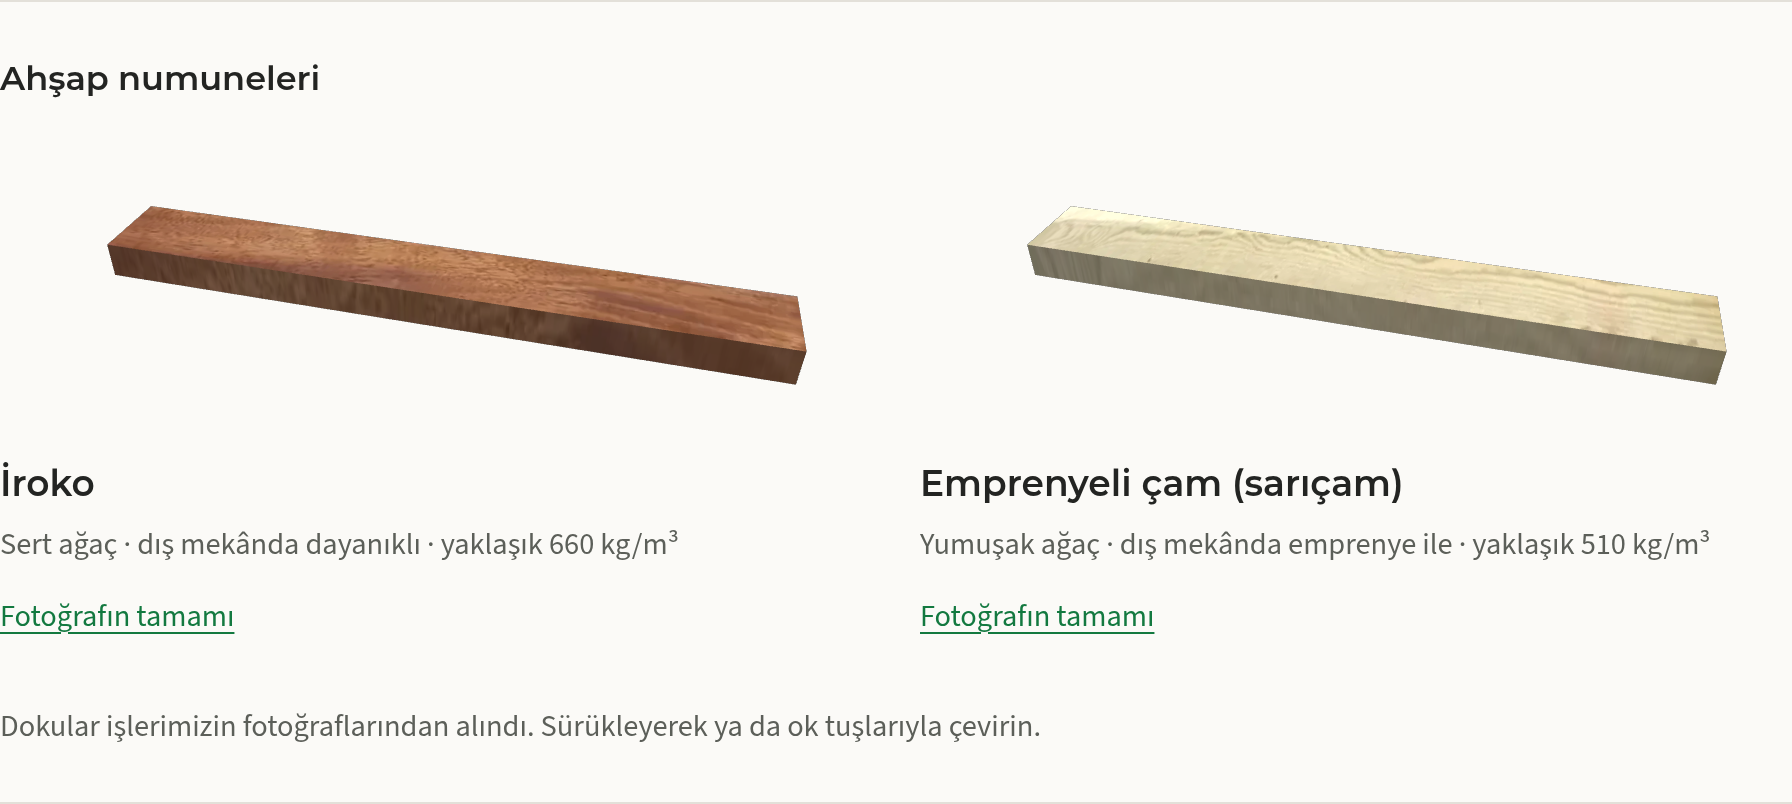
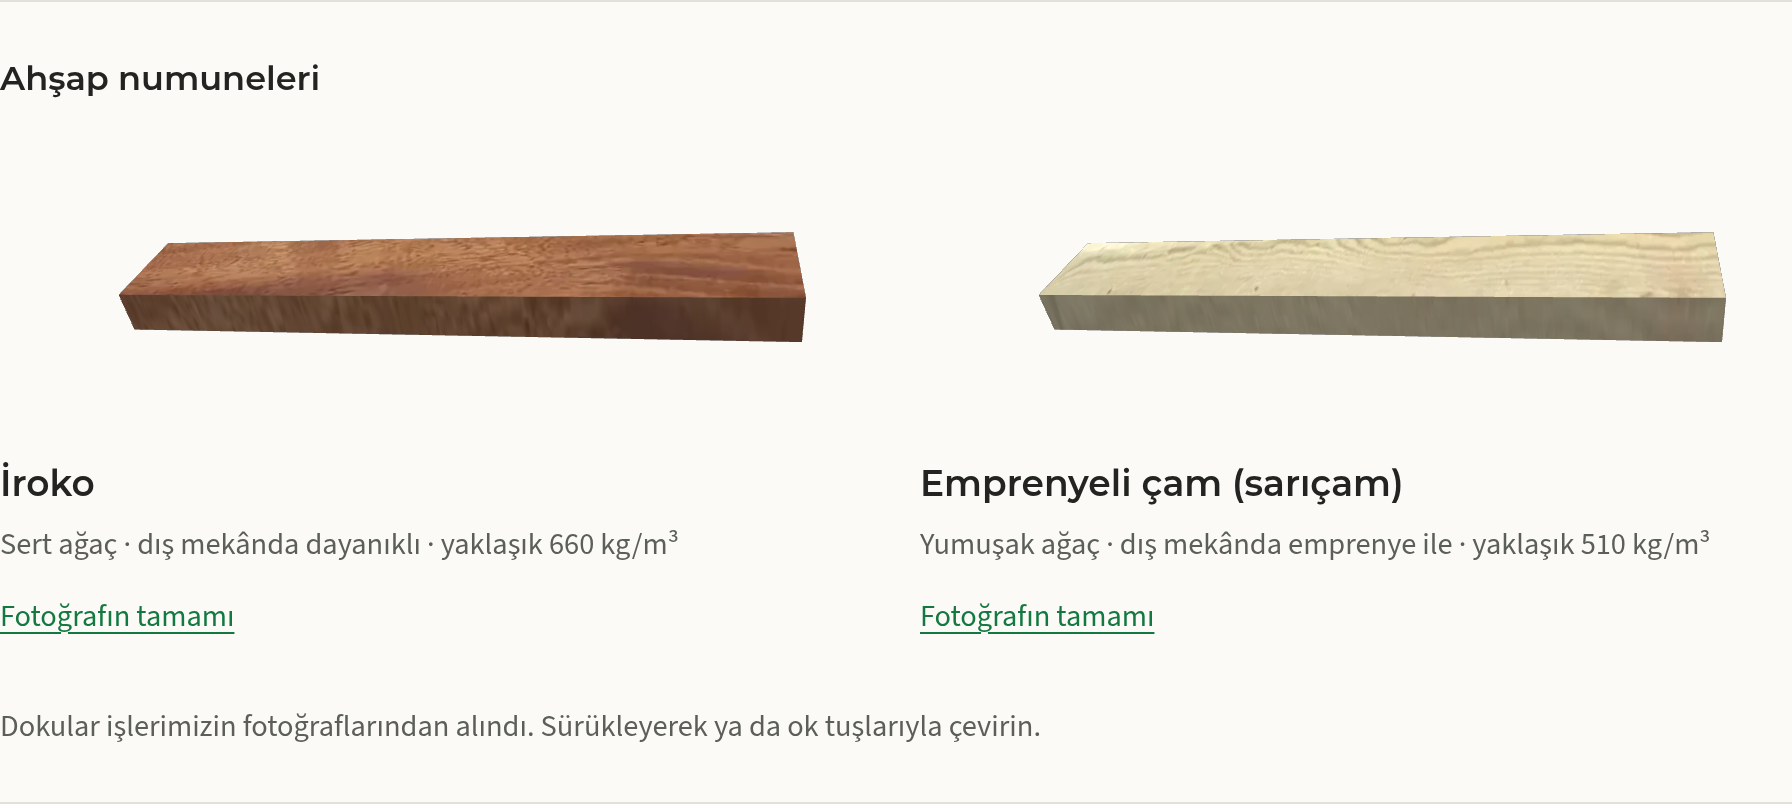
fix(guides): #161 review — the plank never leaves its tile; review lows
HIGH: the board turns about the world vertical again (OGL YXZ: tilted about its long
axis, then turned), so its long axis stays level, and the camera is framed for every
reachable pose (REACHABLE: tilt within MAX_TILT, a full turn), not the rest pose only.
A unit test sweeps tilt × a full circle: the projected extent stays ≤ 1 (inside the
tile), and the rest pose still fills > 0.6. The board is 6.4:1 (the middle 80% of the
photo's length) so it reads larger in its 3:1 tile. Mid-drag screenshots on a real GPU:
docs/screens/156-wood-drag-{desktop,mobile}.png.

Lows:
- evenColumns never hides more photos than trimColumns alone (fallback + seeded test).
- Arabic slugs: ک → k, ی → y; TOC test for transliterated Arabic H2 anchors.
- validSlug comment and project-slugs.ts header (digits-only rule) updated.
- guideProjects outdoor tie-break is a binary (outdoor or not).
- legalUses(settings) shared by the KVKK and cookie pages.
- docs/content/CHECKLIST.md: owner to confirm the cabinet rail is iroko.

Part of #156
Part of #5

Changed region(s): [[0.0625, 0.2488, 0.4688, 0.4975], [0.5625, 0.2488, 0.9688, 0.4975]]

diff --git a/src/lib/wood/samples.ts b/src/lib/wood/samples.ts
@@ -59,22 +59,49 @@ export const rotate = (r: Rotation, d: Rotation): Rotation => ({
 /** Vertical field of view of the samples' camera (a long lens: little perspective stretch on the near end). */
 export const FOV = 20
 
+type Size = { width: number; height: number; depth: number }
+
 /**
- * Camera distance at which a box of this size, turned by `r` (a turntable: first turned about its own vertical axis by `y`, then tilted toward the camera by `x`), spans
- * `fill` of the tile's width or height, whichever it reaches first, so the board fills its tile at any tile size.
+ * The sample board, an offcut lying face-up: 6.4:1 top face (the middle 80% of the 8:1 photo, so it fills more of its
+ * tile), about half as thick as it is wide.
  */
-export function fitDistance(size: { width: number; height: number; depth: number }, r: Rotation, aspect: number, fill = 0.85): number {
-  const t = Math.tan((FOV / 2) * (Math.PI / 180))
-  const corners = [-1, 1].flatMap((sx) => [-1, 1].flatMap((sy) => [-1, 1].map((sz) => [(sx * size.width) / 2, (sy * size.height) / 2, (sz * size.depth) / 2] as const)))
-  const turned = corners.map(([x, y, z]) => {
-    const [x1, z1] = [x * Math.cos(r.y) + z * Math.sin(r.y), -x * Math.sin(r.y) + z * Math.cos(r.y)]
-    return [x1, y * Math.cos(r.x) - z1 * Math.sin(r.x), y * Math.sin(r.x) + z1 * Math.cos(r.x)] as const
-  })
-  const fits = (d: number) => turned.every(([x, y, z]) => Math.abs(x) / ((d - z) * t * aspect) <= fill && Math.abs(y) / ((d - z) * t) <= fill)
+export const WOOD_BOARD: Size = { width: 3.2, height: 0.22, depth: 0.5 }
+/** Rest pose: top face seen from about 34° above, turned a little so the front edge and one end read. */
+export const WOOD_REST: Rotation = { x: 0.6, y: -0.3 }
+/**
+ * Every pose a drag or the arrow keys can reach (tilt clamped by MAX_TILT, turn unlimited), sampled: the camera is framed
+ * for all of them, so the board never leaves its tile (review of #161).
+ */
+export const REACHABLE: readonly Rotation[] = Array.from({ length: 17 }, (_, i) => -MAX_TILT + (i * MAX_TILT) / 8).flatMap((x) =>
+  Array.from({ length: 48 }, (_, j) => ({ x, y: (j * Math.PI) / 24 })),
+)
+
+const TAN = Math.tan((FOV / 2) * (Math.PI / 180))
+const corners = (size: Size) =>
+  [-1, 1].flatMap((sx) => [-1, 1].flatMap((sy) => [-1, 1].map((sz) => [(sx * size.width) / 2, (sy * size.height) / 2, (sz * size.depth) / 2] as const)))
+// OGL's Euler order YXZ: tilted about the board's long axis (x), then turned about the world vertical (y), so the long
+// axis always stays level and a turn never swings it up out of the tile.
+const turn = (r: Rotation) => ([x, y, z]: readonly [number, number, number]) => {
+  const [y1, z1] = [y * Math.cos(r.x) - z * Math.sin(r.x), y * Math.sin(r.x) + z * Math.cos(r.x)]
+  return [x * Math.cos(r.y) + z1 * Math.sin(r.y), y1, -x * Math.sin(r.y) + z1 * Math.cos(r.y)] as const
+}
+
+/** How far the turned board reaches toward the tile's edge from a camera at distance `d` (1 = the edge; NDC). */
+export function projectedExtent(size: Size, r: Rotation, aspect: number, d: number): number {
+  return Math.max(...corners(size).map(turn(r)).map(([x, y, z]) => Math.max(Math.abs(x) / ((d - z) * TAN * aspect), Math.abs(y) / ((d - z) * TAN))))
+}
+
+/**
+ * Camera distance at which the board, in the worst of the given poses, spans `fill` of the tile's width or height,
+ * whichever it reaches first: it fills the tile at any tile size and stays inside it in every one of those poses.
+ */
+export function fitDistance(size: Size, poses: readonly Rotation[], aspect: number, fill = 0.85): number {
+  const nearest = Math.max(...poses.flatMap((r) => corners(size).map(turn(r)).map((p) => p[2])))
+  const fits = (d: number) => poses.every((r) => projectedExtent(size, r, aspect, d) <= fill)
   // The projected size only shrinks as the camera backs off, so bisect between the nearest corner and far away.
-  let lo = Math.max(...turned.map((p) => p[2])) + 1e-6
+  let lo = nearest + 1e-6
   let hi = 1000
-  for (let i = 0; i < 60; i++) {
+  for (let i = 0; i < 50; i++) {
     const mid = (lo + hi) / 2
     if (fits(mid)) hi = mid
     else lo = mid

diff --git a/src/components/guides/wood-scene.ts b/src/components/guides/wood-scene.ts
@@ -4,10 +4,15 @@
 // Loaded through a dynamic import once the samples scroll into view, so OGL never ships in the page's first-load JS.
 import { Box, Camera, Mesh, Program, Renderer, Texture, Transform } from 'ogl'
 
-import { fitDistance, FOV } from '@/lib/wood/samples'
+import { fitDistance, FOV, REACHABLE, WOOD_BOARD } from '@/lib/wood/samples'
 
-// A board lying face-up: 8:1 top face like the texture, about half as thick as it is wide (a sample offcut).
-const BOARD = { width: 4, height: 0.22, depth: 0.5 }
+// Framing for every reachable pose costs a few tens of ms; the tile keeps its aspect, so it is worked out once per aspect.
+const distances = new Map<string, number>()
+const distanceFor = (aspect: number) => {
+  const key = aspect.toFixed(2)
+  if (!distances.has(key)) distances.set(key, fitDistance(WOOD_BOARD, REACHABLE, aspect))
+  return distances.get(key)!
+}
 
 const vertex = /* glsl */ `
 attribute vec3 position;
@@ -43,7 +48,9 @@ void main() {
   // across. The top shows the photo; a long edge shows a thin strip of it (the same grain, seen edge-on); an end shows end
   // grain: one column of the photo, darker, as sawn end grain is.
   vec3 f = abs(vFace);
-  vec2 uv = f.y > 0.5 ? vUv : f.z > 0.5 ? vec2(vUv.x, 0.45 + vUv.y * 0.1) : vec2(0.02 + vUv.y * 0.02, vUv.x);
+  // The board is 6.4:1, shorter than the 8:1 photo: it shows the middle 80% of the photo's length, uncropped across.
+  float u = 0.1 + vUv.x * 0.8;
+  vec2 uv = f.y > 0.5 ? vec2(u, vUv.y) : f.z > 0.5 ? vec2(u, 0.45 + vUv.y * 0.1) : vec2(0.12 + vUv.y * 0.02, vUv.x);
   vec3 base = texture2D(tMap, uv).rgb * (f.x > 0.5 ? 0.62 : f.z > 0.5 ? 0.86 : 1.0);
   // Grain relief: darker latewood reads as slightly lower, so the light catches the grain lines.
   vec2 g = f.y > 0.5 ? vec2(lum(uv + vec2(uTexel.x, 0.0)) - lum(uv - vec2(uTexel.x, 0.0)), lum(uv + vec2(0.0, uTexel.y)) - lum(uv - vec2(0.0, uTexel.y))) : vec2(0.0);
@@ -104,26 +111,21 @@ export async function mountWoodScene(
       uniforms: { tMap: { value: texture }, uTexel: { value: [1 / img.naturalWidth, 1 / img.naturalHeight] } },
     })
     const plank = new Mesh(gl, {
-      geometry: new Box(gl, BOARD),
+      geometry: new Box(gl, WOOD_BOARD),
       program,
     })
-    // A turntable: the board turns about its own vertical axis (y) on a stand that tilts toward the camera (x), so the
-    // top face stays a surface seen from above whichever way it is turned.
-    const stand = new Transform()
-    stand.setParent(scene)
-    plank.setParent(stand)
-    const turn = (r: { x: number; y: number }) => {
-      stand.rotation.x = r.x
-      plank.rotation.y = r.y
-    }
+    // Tilted about its long axis, then turned about the world vertical (OGL's YXZ order): the long axis stays level, so
+    // no turn swings an end up out of the tile.
+    plank.setParent(scene)
+    const turn = (r: { x: number; y: number }) => plank.rotation.set(r.x, r.y, 0)
     turn(rotation)
     const draw = () => renderer.render({ scene, camera })
     resize = () => {
       const aspect = frame.clientWidth / Math.max(1, frame.clientHeight)
       renderer.setSize(frame.clientWidth, frame.clientHeight)
       camera.perspective({ aspect })
-      // Framed for the rest pose, so the board fills the tile at any size; turning it later never re-zooms.
-      camera.position.set(0, 0, fitDistance(BOARD, rotation, aspect))
+      // Framed for every pose a drag can reach, so the board fills the tile at rest and never leaves it when turned.
+      camera.position.set(0, 0, distanceFor(aspect))
       draw()
     }
     canvas.addEventListener('webglcontextlost', lost)

diff --git a/src/lib/wood/samples.test.ts b/src/lib/wood/samples.test.ts
@@ -9,6 +9,10 @@ import {
   shownSamples,
   WOOD_SAMPLES,
   fitDistance,
+  projectedExtent,
+  REACHABLE,
+  WOOD_BOARD,
+  WOOD_REST,
 } from './samples'
 
 describe('WOOD_SAMPLES', () => {
@@ -79,14 +83,31 @@ describe('rotate', () => {
   })
 })
 
-describe('fitDistance (#156: the plank fills its tile at rest)', () => {
+describe('fitDistance (#156: the plank fills its tile and never leaves it)', () => {
   const board = { width: 4, height: 0.22, depth: 0.5 }
   it('face-on in a 3:1 tile, width-limited: the near corners span 85% of the width', () => {
     // Hand: x_ndc = 2 / ((d − 0.25) · tan 10° · 3) = 0.85 → d = 0.25 + 2 / (0.85 · 0.176327 · 3) = 4.6981.
-    expect(fitDistance(board, { x: 0, y: 0 }, 3)).toBeCloseTo(4.6981, 3)
+    expect(fitDistance(board, [{ x: 0, y: 0 }], 3)).toBeCloseTo(4.6981, 3)
   })
   it('in a very wide tile, height-limited: the thickness spans 85% of the height', () => {
     // Hand: y_ndc = 0.11 / ((d − 0.25) · tan 10°) = 0.85 → d = 0.25 + 0.11 / (0.85 · 0.176327) = 0.9839 (x_ndc 0.77 then).
-    expect(fitDistance(board, { x: 0, y: 0 }, 20)).toBeCloseTo(0.9839, 3)
+    expect(fitDistance(board, [{ x: 0, y: 0 }], 20)).toBeCloseTo(0.9839, 3)
+  })
+  it('a quarter turn about the vertical points the board at the camera: its long axis stays level', () => {
+    // y = 90°: the near end sits at z = 2, its 0.11 half-thickness must fit: d = 2 + 0.11 / (0.85 · tan 10°) = 2.7339
+    // (x_ndc of the 0.25 half-depth at aspect 3 is smaller).
+    expect(fitDistance(board, [{ x: 0, y: Math.PI / 2 }], 3)).toBeCloseTo(2.7339, 3)
+  })
+  it('framed for every reachable turn, the board stays inside its tile however it is dragged (review of #161)', () => {
+    for (const aspect of [3, 3.5]) {
+      const d = fitDistance(WOOD_BOARD, REACHABLE, aspect)
+      // A finer sweep than REACHABLE: every tilt the clamp allows, every turn of a full circle.
+      let worst = 0
+      for (let x = -MAX_TILT; x <= MAX_TILT + 1e-9; x += MAX_TILT / 40)
+        for (let y = -Math.PI; y <= Math.PI; y += Math.PI / 90) worst = Math.max(worst, projectedExtent(WOOD_BOARD, { x, y }, aspect, d))
+      expect(worst).toBeLessThanOrEqual(1)
+      // …and at rest it still fills most of the tile.
+      expect(projectedExtent(WOOD_BOARD, WOOD_REST, aspect, d)).toBeGreaterThan(0.6)
+    }
   })
 })

diff --git a/src/content/legal/kvkk.tsx b/src/content/legal/kvkk.tsx
@@ -1,10 +1,17 @@
 // Draft privacy notice (KVKK aydınlatma metni) used until a published `pages` doc (slug kvkk/privacy) exists.
 // Facts only from siteSettings and the actual form/infra (PLAN §10). A lawyer should review it before launch.
 import { Link } from '@/i18n/navigation'
+import { isMapEmbedUrl } from '@/lib/http/safe-href'
 
 type Controller = { name: string; address?: string; email?: string | null }
 /** What this deployment really loads: GA4 (env), Umami (env), the click-to-load Google map (siteSettings). */
 export type Uses = { ga: boolean; umami: boolean; map: boolean }
+/** One answer for the KVKK notice and the cookie policy (#156): measurement is named in both, or in neither. */
+export const legalUses = (settings: { address?: { mapEmbedUrl?: string | null } | null }): Uses => ({
+  ga: Boolean(process.env.NEXT_PUBLIC_GA_ID),
+  umami: Boolean(process.env.NEXT_PUBLIC_UMAMI_SRC && process.env.NEXT_PUBLIC_UMAMI_WEBSITE_ID),
+  map: isMapEmbedUrl(settings.address?.mapEmbedUrl),
+})
 
 // The e-mail is its own anchor: Cloudflare Email Obfuscation rewrites a bare address inside a text node, and its
 // decoder leaves split text nodes that break hydration (#147). A mailto link survives untouched.

diff --git a/src/lib/gallery/masonry.ts b/src/lib/gallery/masonry.ts
@@ -97,7 +97,7 @@ const HIDDEN_COST = 0.3
 /**
  * For a fixed set (no feed appends), #156: balances, then rearranges for the most even bottom edge after trimColumns
  * (ragged edge plus HIDDEN_COST per hidden photo), and trims. So the grid ends on a near-even line while hiding as few
- * chosen photos as it can.
+ * chosen photos as it can, and never more than trimColumns alone.
  */
 export function evenColumns(items: readonly Box[], columns: readonly number[][], gap = 0.05): number[][] {
   const ragged: Score = (cols) => {
@@ -105,5 +105,8 @@ export function evenColumns(items: readonly Box[], columns: readonly number[][],
     const h = heightsOf(items, kept, gap)
     return Math.max(...h) - Math.min(...h) + HIDDEN_COST * (items.length - kept.flat().length)
   }
-  return trimColumns(items, improve(balanceColumns(items, columns, gap), ragged))
+  const even = trimColumns(items, improve(balanceColumns(items, columns, gap), ragged))
+  // The trade-off above may hide a photo for a straighter edge; never more than trimming alone would (#161 review).
+  const plain = trimColumns(items, columns)
+  return even.flat().length >= plain.flat().length ? even : plain
 }

diff --git a/src/app/(frontend)/[locale]/kvkk/page.tsx b/src/app/(frontend)/[locale]/kvkk/page.tsx
@@ -3,11 +3,10 @@ import type { Metadata } from 'next'
 import { getFormatter, getTranslations, setRequestLocale } from 'next-intl/server'
 
 import { ContentPage } from '@/components/content/ContentPage'
-import { KvkkDraft } from '@/content/legal/kvkk'
+import { KvkkDraft, legalUses } from '@/content/legal/kvkk'
 import type { Locale } from '@/i18n/routing'
 import { CMS_PAGES, getPage, getPageTitles } from '@/lib/data/pages'
 import { getSiteSettings } from '@/lib/data/site'
-import { isMapEmbedUrl } from '@/lib/http/safe-href'
 import { cmsPagePaths, pageMetadata } from '@/lib/seo/page-metadata'
 
 const SLUGS = CMS_PAGES['/kvkk']
@@ -46,7 +45,7 @@ export default async function Page({ params }: Props) {
           address: [settings.address?.street, settings.address?.district, settings.address?.city].filter(Boolean).join(', ') || undefined,
           email: settings.email,
         }}
-        uses={{ ga: Boolean(process.env.NEXT_PUBLIC_GA_ID), umami: Boolean(process.env.NEXT_PUBLIC_UMAMI_SRC && process.env.NEXT_PUBLIC_UMAMI_WEBSITE_ID), map: isMapEmbedUrl(settings.address?.mapEmbedUrl) }}
+        uses={legalUses(settings)}
       />
     </ContentPage>
   )

diff --git a/src/app/(frontend)/[locale]/cerez-politikasi/page.tsx b/src/app/(frontend)/[locale]/cerez-politikasi/page.tsx
@@ -4,10 +4,10 @@ import { getFormatter, getTranslations, setRequestLocale } from 'next-intl/serve
 
 import { ContentPage } from '@/components/content/ContentPage'
 import { CookiesDraft } from '@/content/legal/cookies'
+import { legalUses } from '@/content/legal/kvkk'
 import type { Locale } from '@/i18n/routing'
 import { CMS_PAGES, getPage, getPageTitles } from '@/lib/data/pages'
 import { getSiteSettings } from '@/lib/data/site'
-import { isMapEmbedUrl } from '@/lib/http/safe-href'
 import { cmsPagePaths, pageMetadata } from '@/lib/seo/page-metadata'
 
 const SLUGS = CMS_PAGES['/cerez-politikasi']
@@ -42,7 +42,7 @@ export default async function Page({ params }: Props) {
       <CookiesDraft
         locale={locale}
         name={settings.companyName}
-        uses={{ ga: Boolean(process.env.NEXT_PUBLIC_GA_ID), umami: Boolean(process.env.NEXT_PUBLIC_UMAMI_SRC && process.env.NEXT_PUBLIC_UMAMI_WEBSITE_ID), map: isMapEmbedUrl(settings.address?.mapEmbedUrl) }}
+        uses={legalUses(settings)}
       />
     </ContentPage>
   )

diff --git a/scripts/seed/project-slugs.ts b/scripts/seed/project-slugs.ts
@@ -2,7 +2,8 @@
 // so the seeded ar titles left the slug empty (or a bare year, the only Latin in the title): those projects were not
 // "published" in ar (no home tile, no related work on the ar guides). ar takes the hand-written slug from
 // seed/i18n/ar/content/project-stories.json (the project found by its cluster's TR title); any other gap takes the
-// transliterated title. A slug is written only while it is empty or exactly the old hook's output (slugFix), so an
+// transliterated title. A slug is written only while it is empty, exactly the old hook's output, or a bare number on an
+// Arabic title (the old output once #148 took the year out of the title; on dev: 2014 / 2016) — see slugFix. So an
 // editor's slug is kept and a re-run writes nothing.
 // Where the write goes (as project-story-fixes.ts): a never-published project gets a new draft version; a published one
 // whose latest version is the published one gets a new published version changing only the slug; a published one with

diff --git a/src/lib/guides/related.ts b/src/lib/guides/related.ts
@@ -1,4 +1,4 @@
-import { categoryRank } from '@/lib/gallery/curate'
+import { OUTDOOR_FIRST } from '@/lib/gallery/curate'
 
 /**
  * "İlgili yazılar" (#146): other guides, those sharing more related categories first, then the newest. `guides` comes
@@ -22,10 +22,10 @@ type Cat = { id: number; slug?: string | null }
  */
 export function guideProjects<T extends { categories: Cat[] }>(projects: T[], categories: Cat[], limit = 3): T[] {
   const order = categories.map((c) => c.id)
-  const outdoor = categoryRank([])
   const key = (p: T) => [
     Math.min(...p.categories.map((c) => order.indexOf(c.id)).filter((i) => i >= 0)),
-    Math.min(1000, ...p.categories.map((c) => outdoor(c.slug ?? ''))),
+    // Outdoor or not, a binary: the order within OUTDOOR_FIRST is for gallery mixing, not for this.
+    p.categories.some((c) => (OUTDOOR_FIRST as readonly string[]).includes(c.slug ?? '')) ? 0 : 1,
   ]
   return projects
     .map((p) => ({ p, k: key(p) }))

diff --git a/src/lib/guides/toc.test.ts b/src/lib/guides/toc.test.ts
@@ -25,6 +25,11 @@ describe('tableOfContents', () => {
     expect(tableOfContents(doc(h('h2', text('İroko mu Teak mi? Işık ve Şekil')))).items[0]!.id).toBe('iroko-mu-teak-mi-isik-ve-sekil')
   })
 
+  it('gives Arabic headings transliterated Latin ids (#156; they were bolum-N before slugify read Arabic)', () => {
+    // Hand: م m, ا a | ا a, ل l, ف f, ر r, ق q; the Arabic question mark is a separator.
+    expect(tableOfContents(doc(h('h2', text('ما الفرق؟')))).items[0]!.id).toBe('ma-alfrq')
+  })
+
   it('suffixes duplicate headings so every anchor is unique', () => {
     const body = doc(h('h2', text('Fiyat?')), h('h2', text('Fiyat?')), h('h2', text('Fiyat?')))
     expect(tableOfContents(body).items.map((i) => i.id)).toEqual(['fiyat', 'fiyat-2', 'fiyat-3'])

diff --git a/src/components/guides/WoodSamplesView.tsx b/src/components/guides/WoodSamplesView.tsx
@@ -2,14 +2,13 @@
 
 import { useCallback, useEffect, useId, useRef, useState } from 'react'
 
-import { can3d, keyRotation, rotate, type WoodKey } from '@/lib/wood/samples'
+import { can3d, keyRotation, rotate, WOOD_REST, type WoodKey } from '@/lib/wood/samples'
 
 import type { WoodScene } from './wood-scene'
 
 type Labels = { hint: string; note: string; title: string; roledescription: string }
 type Sample = { key: WoodKey; texture: string; name: string; fact: string; source?: { label: string; href: string } }
-// A board lying face-up, seen from about 40° above and turned a little: top face, front edge, end grain all read at rest.
-const START = { x: 0.6, y: -0.26 }
+const START = WOOD_REST
 
 function env() {
   const nav = navigator as Navigator & {

diff --git a/src/lib/gallery/masonry.test.ts b/src/lib/gallery/masonry.test.ts
@@ -144,4 +144,14 @@ describe('evenColumns (#156: the homepage grid, a fixed set)', () => {
       expect(even.flat().length).toBeGreaterThanOrEqual(plain.flat().length)
     }
   })
+
+  it('never hides more photos than trimming alone (review of #161), over many mixed sets', () => {
+    let seed = 7
+    const rnd = () => (seed = (seed * 1103515245 + 12345) % 2 ** 31) / 2 ** 31
+    const ratios = [0.5625, 0.75, 1, 1.33]
+    for (let t = 0; t < 200; t++) {
+      const items = Array.from({ length: 16 }, () => r(ratios[Math.floor(rnd() * ratios.length)]!))
+      for (const n of [2, 3, 4]) expect(evenColumns(items, distribute(items, n)).flat().length).toBeGreaterThanOrEqual(trimColumns(items, distribute(items, n)).flat().length)
+    }
+  })
 })
